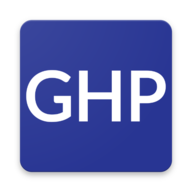
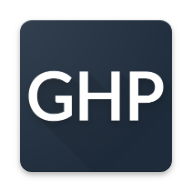
update assets, theme-color to match new color theme

diff --git a/index.html b/index.html
@@ -8,10 +8,10 @@
     <meta name="application-name" content="Github Project Viewer">
     <meta name="apple-mobile-web-app-title" content="Github Project Viewer">
     <meta name="apple-mobile-web-app-status-bar-style" content="black-translucent">
-    <meta name="msapplication-navbutton-color" content="#283593">
+    <meta name="msapplication-navbutton-color" content="#1f2d3d">
     <meta name="msapplication-starturl" content="./index.html">
     <meta name="viewport" content="width=device-width, initial-scale=1, shrink-to-fit=no">
-    <meta name="theme-color" content="#283593">
+    <meta name="theme-color" content="#1f2d3d">
     <!-- links -->
     <link rel="manifest" href="manifest.json">
     <link rel="shortcut icon" type="image/x-icon" href="./assets/favicon.ico">
